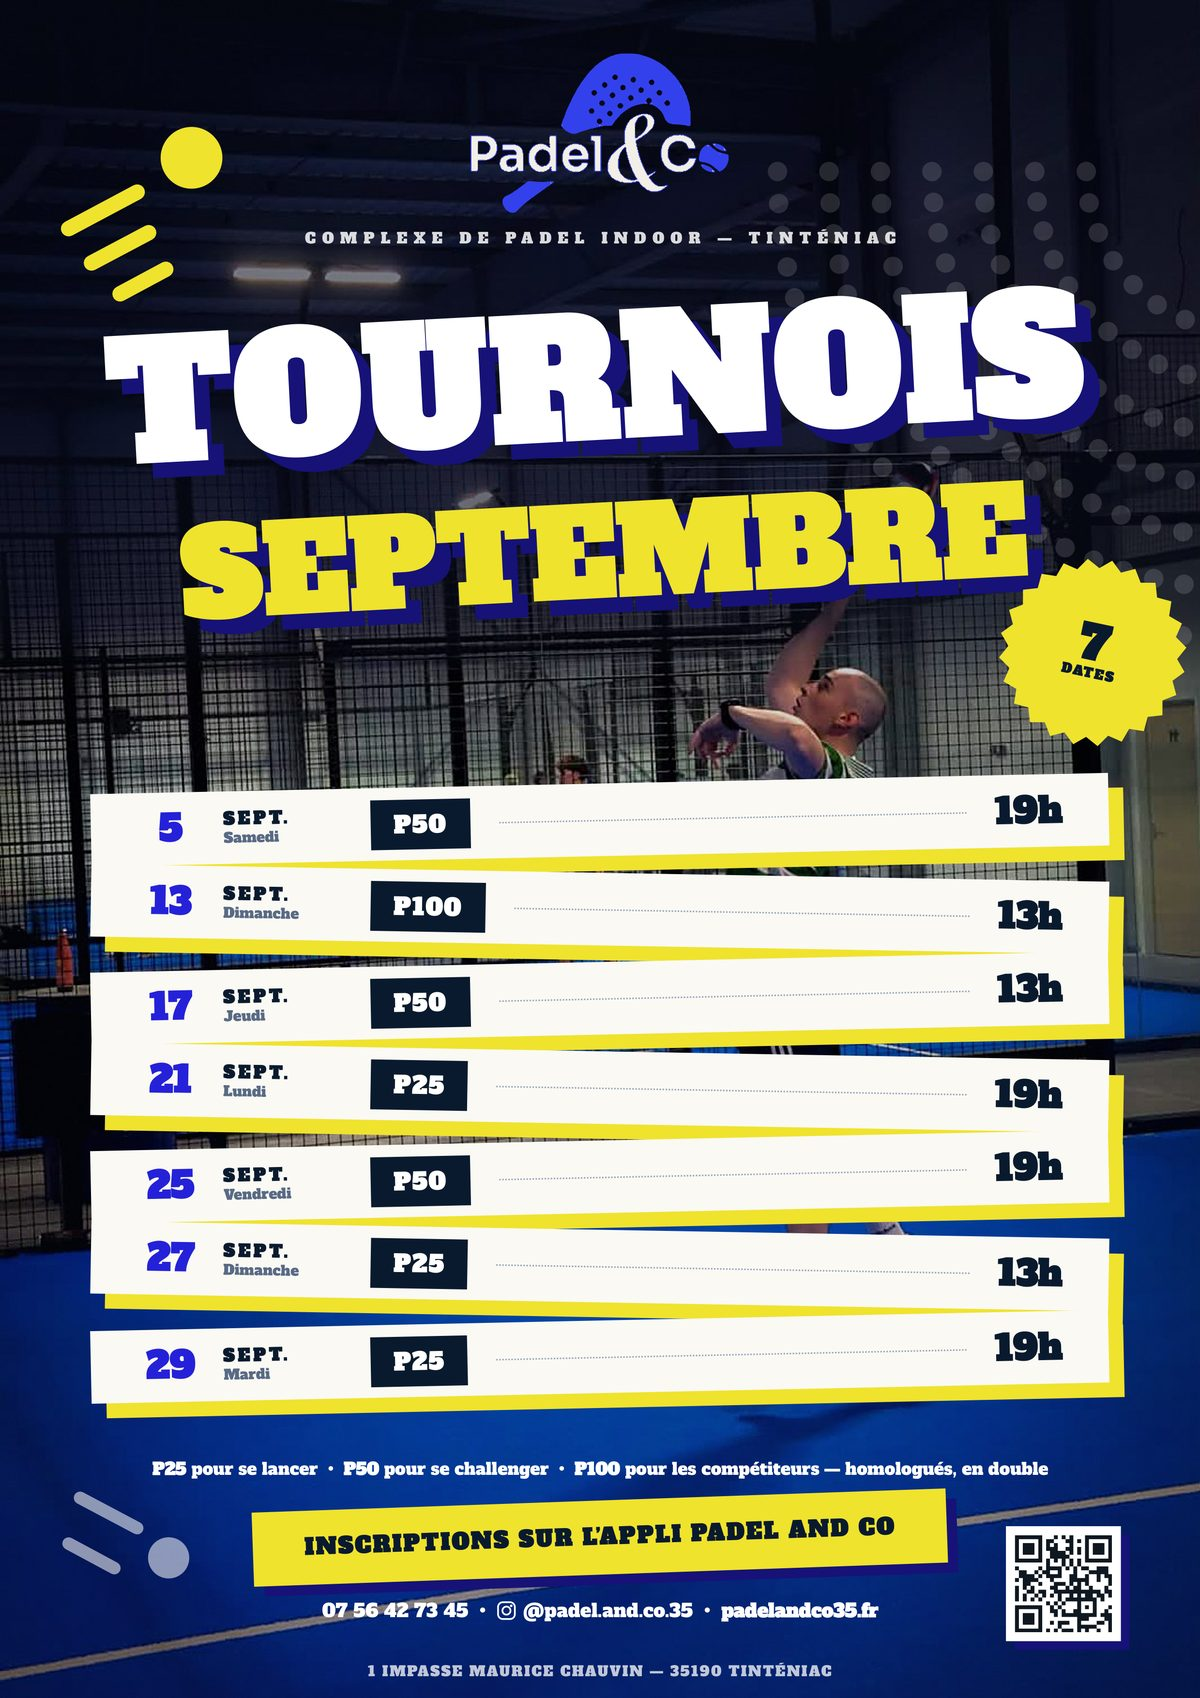
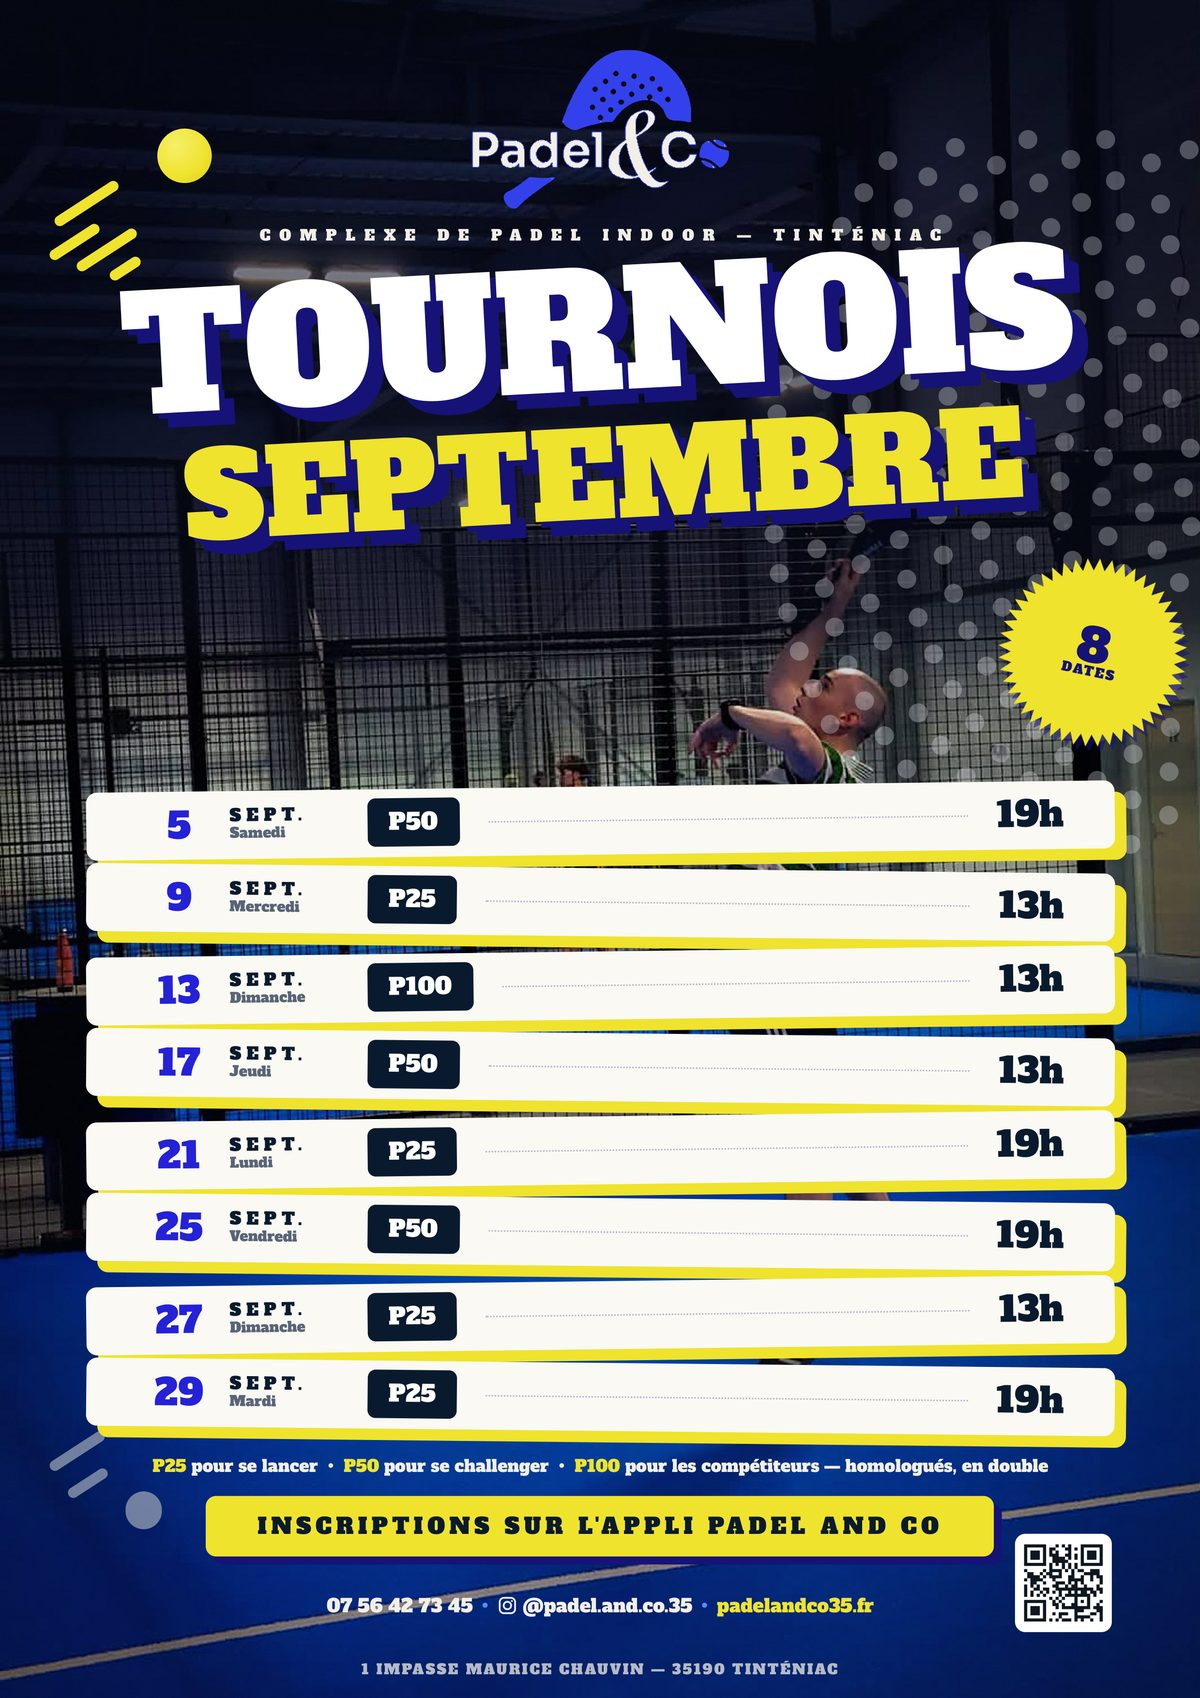
Add files via upload

diff --git a/actus.html b/actus.html
@@ -15,7 +15,7 @@
   <meta property="og:locale" content="fr_FR">
   <meta property="og:site_name" content="Padel &amp; Co">
   <meta property="og:title" content="Les actus de Padel &amp; Co : tournois de septembre, cours et nouvelles du club">
-  <meta property="og:description" content="Sept tournois homologués en septembre (du P25 au P100), inscriptions à l'école de padel et montante-descendante chaque samedi matin : toutes les actus de Padel & Co à Tinténiac.">
+  <meta property="og:description" content="Huit tournois homologués en septembre (du P25 au P100), inscriptions à l'école de padel et montante-descendante chaque samedi matin : toutes les actus de Padel & Co à Tinténiac.">
   <meta property="og:url" content="https://padelandco35.fr/actus.html">
   <meta property="og:image" content="https://padelandco35.fr/images/og-image.jpg">
   <meta property="og:image:width" content="1200">
@@ -139,7 +139,7 @@
           <p class="section__label"><span aria-hidden="true">★</span>À la une</p>
           <h2 class="section__title" id="news-title">Les tournois de septembre sont affichés</h2>
           <p class="section__lede">
-            Sept dates homologuées, du P25 pour se lancer au
+            Huit dates homologuées, du P25 pour se lancer au
             <strong>P100</strong> pour les compétiteurs&nbsp;: l'agenda de la
             rentrée est plein.
             La <strong>Montante&nbsp;/&nbsp;Descendante</strong>, elle, reste fidèle
@@ -153,6 +153,7 @@
             <h3 class="news-billet__date">Les prochains tournois<span>P25 pour se lancer, P50 pour se challenger, P100 pour les compétiteurs</span></h3>
             <ul class="news-billet__liste">
               <li><strong>Samedi 5 septembre</strong><span>P50 · 19h</span></li>
+              <li><strong>Mercredi 9 septembre</strong><span>P25 · 13h</span></li>
               <li><strong>Dimanche 13 septembre</strong><span>P100 · 13h</span></li>
               <li><strong>Jeudi 17 septembre</strong><span>P50 · 13h</span></li>
               <li><strong>Lundi 21 septembre</strong><span>P25 · 19h</span></li>

diff --git a/index.html b/index.html
@@ -398,20 +398,20 @@
         <figure class="affiche-moment__media" data-reveal>
           <button class="affiche-moment__zoom" type="button"
                   data-lightbox-src="images/affiche-tournois-septembre.jpg"
-                  data-lightbox-caption="Tournois de septembre : 7 dates homologuées, inscriptions sur l'appli PADEL AND CO 35"
+                  data-lightbox-caption="Tournois de septembre : 8 dates homologuées, inscriptions sur l'appli PADEL AND CO 35"
                   aria-label="Agrandir l'affiche des tournois de septembre">
             <img src="images/affiche-tournois-septembre.jpg"
-                 alt="L'affiche des tournois de septembre : 7 dates homologuées en double, du P25 au P100, du 5 au 29 septembre"
+                 alt="L'affiche des tournois de septembre : 8 dates homologuées en double, du P25 au P100, du 5 au 29 septembre"
                  width="1200" height="1698" loading="lazy">
             <span class="affiche-moment__loupe" aria-hidden="true"><svg class="icon"><use href="#i-zoom"/></svg></span>
           </button>
         </figure>
         <div class="affiche-moment__body" data-reveal>
           <p class="section__label"><span aria-hidden="true">★</span>L'affiche du moment</p>
-          <h2 class="section__title section__title--sm" id="affiche-title">Sept tournois en septembre</h2>
+          <h2 class="section__title section__title--sm" id="affiche-title">Huit tournois en septembre</h2>
           <p class="affiche-moment__texte">
             La rentrée se joue en double&nbsp;: du <strong>P25</strong> pour se lancer au
-            premier <strong>P100</strong> du club pour les compétiteurs, sept dates
+            premier <strong>P100</strong> du club pour les compétiteurs, huit dates
             homologuées t'attendent du 5 au 29 septembre. Clique sur l'affiche pour
             zoomer, choisis ta date et inscris ton équipe sur l'appli.
           </p>
